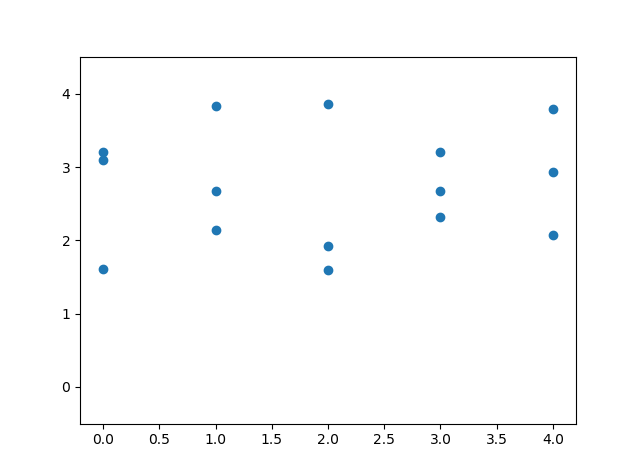
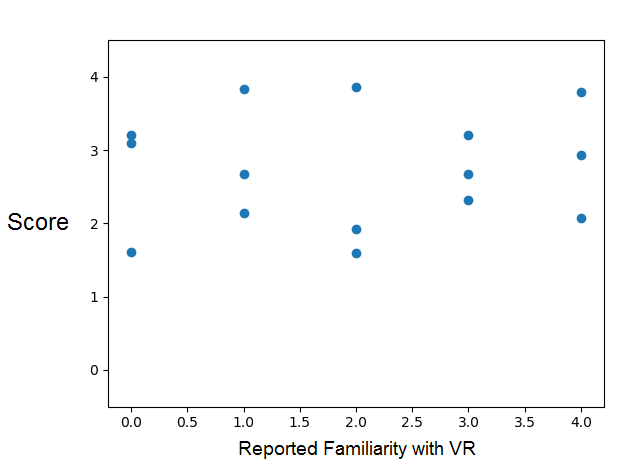
forgot to commit before I pushed lmoba

diff --git a/Project Work/article/Fake_results/fake_results.tex b/Project Work/article/Fake_results/fake_results.tex
@@ -14,22 +14,21 @@ The first statement does not necessarily apply to most of the test participants 
 
 \begin{figure}[h]
 \centering
-\includegraphics[width=0.32\textwidth]{1.png}
-\includegraphics[width=0.32\textwidth]{2.png}
-\includegraphics[width=0.32\textwidth]{3.png}
-\includegraphics[width=0.32\textwidth]{4.png}
-\includegraphics[width=0.32\textwidth]{5.png}
-\includegraphics[width=0.32\textwidth]{6.png}
-\includegraphics[width=0.32\textwidth]{7.png}
-\includegraphics[width=0.32\textwidth]{8.png}
-\includegraphics[width=0.32\textwidth]{9.png}
-\includegraphics[width=0.32\textwidth]{10.png}
-\caption{Answers to statements from the SUS}
+\includegraphics[width=0.32\textwidth]{Page1.png}
+\caption{Answers to statements from the SUS, part 1}
 \label{fig:one}
 \end{figure}
 
+\begin{figure}[h]
+\centering
+\includegraphics[width=0.32\textwidth]{Page2.png}
+\caption{Answers to statements from the SUS, part 2}
+\label{fig:two}
+\end{figure}
+
 %I am familiar with VR or VR controls
-The median score was 67.5, with the first quartile scoring 45 and the third scoring 86.25. %Note: 68 is the american average SUS score - is this result or discussion? Probably discussion
+The results from the SUS, as well as the additional questions, can be found in \autoref{fig:one} and \autoref{fig:two}.
+The median score was 67.5, with the first quartile scoring 45 and the third scoring 86.25. The mean score, calculated using \autoref{eq:SUS_score}, was 70.3. %Note: 68 is the american average SUS score - is this result or discussion? Probably discussion
 
 There were also X other questions following the standard SUS that were meant to gauge user familiarity and experience. These were concerned with age, gender, and familiarity with VR controls. 
 

diff --git a/Project Work/article/Fake_results/fake_interview_results.tex b/Project Work/article/Fake_results/fake_interview_results.tex
@@ -1,0 +1,7 @@
+\subsection{Expert Review Results}
+
+Jane Petersson and Johan Poulsen were both able to test the system. The interview following revealed that the system at present was satisfactory in the scenario, but was not comprehensive enough to warrant implementation with their students. They believed the interaction was good enough as it was, and that trainees didn't require additional features, however they both agreed that several features should be available to the instructors, such as scene change, interacting with procedures and progress, as well as changing the rules during play (for example by introducing emergencies). 
+
+Jane Petersson thought that there was no need for the system to very accurately represent the actual scenario, that it was enough for it to be close. The actual docking and undocking was best trained in real life at a real system, and there was no need to try and replicate the physics in VR.
+
+Johan Poulsen agreed that there were limitations, but that systems such as this could be a must-have for the future of RAMIS. He thought enabling training around the world would advance both international RAMIS procedures, thus improving the outcome of individual surgeries, but also the training of specific scenarios itself, as the system would work well as an introduction and addition to real-life training at a licensed facility.
